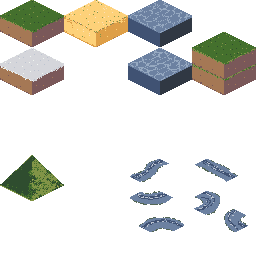
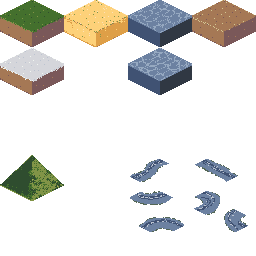
Change ground bits format

Changed region(s): [[0.75, 0.0, 1.0, 0.375]]

diff --git a/scenes/map/WorldGenerator.cs b/scenes/map/WorldGenerator.cs
@@ -151,11 +151,14 @@ namespace scenes.map {
 					var ele = world.GetElevation(x, y);
 					var humi = world.GetHumidity(x, y);
 					var temp = world.GetTemperature(x, y);
-					var tile = GroundTileType.Sand;
-					if (ele < 0) tile = GroundTileType.Ocean;
-					else if (ele > 0.012f && humi > 0.15f) {
-						if (temp < 0) tile = GroundTileType.Snow;
-						else tile = GroundTileType.Grass;
+					var tile = GroundTileType.Sea;
+					if (ele >= 0) {
+						tile = GroundTileType.HasLand;
+						if (ele <= 0.012f) tile |= GroundTileType.HasSand;
+						else if (humi > 0.15f) {
+							if (temp < 0) tile |= GroundTileType.HasSnow;
+							else tile |= GroundTileType.HasVeg;
+						} else tile |= GroundTileType.HasSand;
 					}
 					world.SetTile(x, y, tile);
 				}
@@ -227,16 +230,14 @@ namespace scenes.map {
 			return map;
 		}
 
-		public Dictionary<Vector2I, Region> GenerateRegionStarts(World world, int regionCount, bool sea = false) {
+		public Dictionary<Vector2I, Region> GenerateRegionStarts(World world, int regionCount) {
 			var startPoses = new Dictionary<Vector2I, Region>();
 			int regionsMade = 0;
-
-			var tileType = !sea ? GroundTileType.Grass : GroundTileType.Ocean;
 
 			while (regionsMade < regionCount) {
 				var tile = new Vector2I(rng.RandiRange(0, world.Longitude - 1), rng.RandiRange(0, world.Latitude - 1));
 				while (
-					world.GetTile(tile.X, tile.Y) != tileType
+					(world.GetTile(tile.X, tile.Y) & GroundTileType.HasVeg) == 0
 					|| startPoses.ContainsKey(tile)
 				) {
 					tile = new Vector2I(rng.RandiRange(0, world.Longitude - 1), rng.RandiRange(0, world.Latitude - 1));
@@ -302,7 +303,6 @@ namespace scenes.map {
 			bool sea = false
 		) {
 			var growthOccurred = false;
-			var tileType = !sea ? GroundTileType.Grass : GroundTileType.Ocean;
 
 			for (int xxx = 0; xxx < iterations; xxx++) for (int i = 0; i < regions.Length; i++) {
 					var region = regions[i];
@@ -313,7 +313,7 @@ namespace scenes.map {
 						addKeys.Clear();
 						for (int dirIx = 0; dirIx < 4; dirIx++) {
 							var ix = rng.RandiRange(0, freeEdges.Count - 1);
-							growthOccurred = GrowRegionInDirection(occupied, addKeys, freeEdges, ix, region, dirIx, world, tileType) || growthOccurred;
+							growthOccurred = GrowRegionInDirection(occupied, addKeys, freeEdges, ix, region, dirIx, world, GroundTileType.All) || growthOccurred;
 							if (freeEdges.Count == 0) break;
 						}
 						foreach (var k in addKeys) {
@@ -379,8 +379,8 @@ namespace scenes.map {
 		) {
 			occupied.TryGetValue(where, out Region there);
 			var local = where - region.WorldPosition;
-			var tileAt = world.GetTile(where.X, where.Y);
-			if (there == null && /*tileAt == allowedTile && */ tileAt != GroundTileType.Void && !addKeys.Contains(local)) {
+			//var tileAt = world.GetTile(where.X, where.Y);
+			if (there == null && /*tileAt == allowedTile && */ !addKeys.Contains(local) && where.X >= 0 && where.X < world.Longitude && where.Y >= 0 && where.Y < world.Latitude) {
 				Debug.Assert(!occupied.ContainsKey(where), "Tile I thought was good to grow onto is already planned to be used!!");
 				addKeys.Add(local);
 				Debug.Assert(!occupied.ContainsKey(where), "Tile I thought was good to grow onto is already occupied!!");

diff --git a/src/map/Region.cs b/src/map/Region.cs
@@ -25,8 +25,8 @@ public class Region {
 
 	readonly HashSet<Region> neighbors = new(); public ICollection<Region> Neighbors => neighbors;
 
-	public int LandTileCount => GroundTiles.Values.Where(t => (t & GroundTileType.Land) != 0).Count();
-	public int OceanTileCount => GroundTiles.Values.Where(t => t == GroundTileType.Ocean).Count();
+	public int LandTileCount => GroundTiles.Values.Where(t => (t & GroundTileType.HasLand) != 0).Count();
+	public int OceanTileCount => GroundTiles.Values.Where(t => (t & GroundTileType.HasLand) == 0).Count();
 
 	public readonly Field<ResourceBundle[]> NaturalResources;
 
@@ -96,7 +96,7 @@ public class Region {
 
 	MapObject CreateMapObjectSpotAndPlace(MapObject.IMapObjectType type, Vector2I position) {
 		Debug.Assert(!HasMapObject(position, out var m), $"there's already a mapobject {m} at position {position}");
-		Debug.Assert((type.GetPlacementAllowed() & GroundTiles[position]) != 0, "Can't place this building here");
+		Debug.Assert(type.IsPlacementAllowed(GroundTiles[position]), $"Can't place map object {type.AssetName} here ({position} on {GroundTiles[position]})");
 		var ob = type.CreateMapObject(WorldPosition + position);
 		mapObjects[position] = ob;
 		NaturalResources.Touch();
@@ -158,7 +158,7 @@ public class Region {
 		for (int i = -radius; i <= radius; i++) {
 			for (int j = -radius; j <= radius; j++) {
 				if (i * i + j * j <= radius * radius) {
-					tiles[new Vector2I(i, j)] = GroundTileType.Grass;
+					tiles[new Vector2I(i, j)] = GroundTileType.HasLand;
 
 					if (i != 0 || j != 0) {
 						if (GD.Randf() < 0.01f) rs.Add(new Vector2I(i, j), Registry.ResourceSitesS.Rock);

diff --git a/src/map/World.cs b/src/map/World.cs
@@ -3,25 +3,25 @@ using Godot;
 
 [Flags]
 public enum GroundTileType : byte {
-	Void  = 0b00000000,
-	Grass = 0b00000001,
-	Sand  = 0b00000010,
-	Snow  = 0b00000100,
-	Land  = 0b01111111,
-	Ocean = 0b10000000,
+	Sea      = 0b00000000,
+	HasLand  = 0b00000001,
+	HasSand  = 0b00000010,
+	HasVeg   = 0b00000100,
+	HasSnow  = 0b00001000,
+	All      = 0b11111111
 }
 
 public static class GroundTileTypeEx {
 	public static string UIString(this GroundTileType t) {
-		return t switch {
-			GroundTileType.Void => "...",
-			GroundTileType.Grass => "grass",
-			GroundTileType.Sand => "sand",
-			GroundTileType.Snow => "snow",
-			GroundTileType.Land => "??all land",
-			GroundTileType.Ocean => "sea",
-			_ => throw new NotImplementedException(),
-		};
+		if (t == GroundTileType.Sea) return "sea";
+		if ((t & GroundTileType.HasLand) != 0) {
+			if ((t & GroundTileType.HasSand) != 0) return "sand";
+			if ((t & GroundTileType.HasVeg) != 0) return "grass";
+			if ((t & GroundTileType.HasSnow) != 0) return "snow";
+			return "land";
+		}
+		Debug.Assert(false, "Unimplemented ground type name");
+		return "???";
 	}
 }
 
@@ -55,8 +55,8 @@ public class World {
 	}
 
 	public GroundTileType GetTile(int x, int y) {
-		if (x < 0 || x >= Longitude) return GroundTileType.Void;
-		if (y < 0 || y >= Latitude) return GroundTileType.Void;
+		if (x < 0 || x >= Longitude) return GroundTileType.Sea;
+		if (y < 0 || y >= Latitude) return GroundTileType.Sea;
 		return Ground[x + y * Longitude];
 	}
 

diff --git a/scenes/region/Tilemaps.cs b/scenes/region/Tilemaps.cs
@@ -73,6 +73,10 @@ public class GroundCellType {
 		SourceId = 1,
 		AtlasCoords = Vector2I.Zero,
 	};
+	public readonly static GroundCellType LAND = new() {
+		SourceId = 1,
+		AtlasCoords = new Vector2I(3, 0),
+	};
 	public readonly static GroundCellType GRASS = new() {
 		SourceId = 1,
 		AtlasCoords = Vector2I.Zero,
@@ -94,15 +98,17 @@ public class GroundCellType {
 	public Vector2I AtlasCoords;
 
 
-	public static GroundCellType MatchTileTypeToCell(GroundTileType tile) {
-		return tile switch {
-			GroundTileType.Void => VOID,
-			GroundTileType.Grass => GRASS,
-			GroundTileType.Sand => SAND,
-			GroundTileType.Snow => SNOW,
-			GroundTileType.Ocean => WATER,
-			_ => throw new Exception($"Can't match {tile} to CellType")
-		};
+	public static GroundCellType MatchTileTypeToCell(GroundTileType t) {
+		if ((t & GroundTileType.HasLand) == 0) return GroundCellType.WATER;
+		if ((t & GroundTileType.HasLand) != 0) {
+			if ((t & GroundTileType.HasSand) != 0) return GroundCellType.SAND;
+			if ((t & GroundTileType.HasVeg) != 0) return GroundCellType.GRASS;
+			if ((t & GroundTileType.HasSnow) != 0) return GroundCellType.SNOW;
+			return GroundCellType.LAND;
+		}
+		Debug.Assert(false, "Unimplemented ground type tile");
+		return GroundCellType.VOID;
+
 	}
 
 }

diff --git a/resources/game/building_types/BuildingType.cs b/resources/game/building_types/BuildingType.cs
@@ -25,7 +25,7 @@ namespace resources.game.building_types {
 		[Export] float HoursToConstruct = 1f;
 		[Export] Special special;
 		[Export] string[] AvailableJobClassNames = Array.Empty<string>();
-		[Export(PropertyHint.Flags)] GroundTileType AllowedGroundTiles = GroundTileType.Land;
+		[Export(PropertyHint.Flags)] GroundTileType AllowedGroundTiles = GroundTileType.HasLand;
 		[Export(PropertyHint.File, "*.tscn")] string ScenePath;
 
 
@@ -71,8 +71,9 @@ namespace resources.game.building_types {
 
 		public string GetDescription() => description;
 
-		public GroundTileType GetPlacementAllowed() {
-			return AllowedGroundTiles;
+		public bool IsPlacementAllowed(GroundTileType on) {
+			//System.Console.WriteLine($"{AllowedGroundTiles} & {on} = {AllowedGroundTiles & on}");
+			return (AllowedGroundTiles & on) == AllowedGroundTiles;
 		}
 	}
 

diff --git a/src/map/Faction.cs b/src/map/Faction.cs
@@ -214,7 +214,7 @@ public class Faction : IEntity {
 	}
 
 	public bool CanPlaceBuilding(IBuildingType type, Vector2I tilepos) {
-		return HasBuildingMaterials(type) && Region.HasBuildingSpace(tilepos) && (Region.GroundTiles[tilepos] & type.GetPlacementAllowed()) != 0;
+		return HasBuildingMaterials(type) && Region.HasBuildingSpace(tilepos) && type.IsPlacementAllowed(Region.GroundTiles[tilepos]);
 	}
 
 	public bool HasBuildingMaterials(IBuildingType type) {

diff --git a/resources/game/resource_site_types/ResourceSiteType.cs b/resources/game/resource_site_types/ResourceSiteType.cs
@@ -34,8 +34,8 @@ namespace resources.game.resource_site_types {
 
 		public string GetScenePath() => ScenePath;
 
-		public GroundTileType GetPlacementAllowed() {
-			return (GroundTileType)0xff;
+		public bool IsPlacementAllowed(GroundTileType t) {
+			return true;
 		}
 	}
 

diff --git a/src/map/MapObject.cs b/src/map/MapObject.cs
@@ -26,7 +26,7 @@ public partial class MapObject {
 
 		MapObject CreateMapObject(Vector2I globalPosition);
 		IEnumerable<Job> GetPossibleJobs();
-		GroundTileType GetPlacementAllowed();
+		bool IsPlacementAllowed(GroundTileType on);
 
 	}
 
